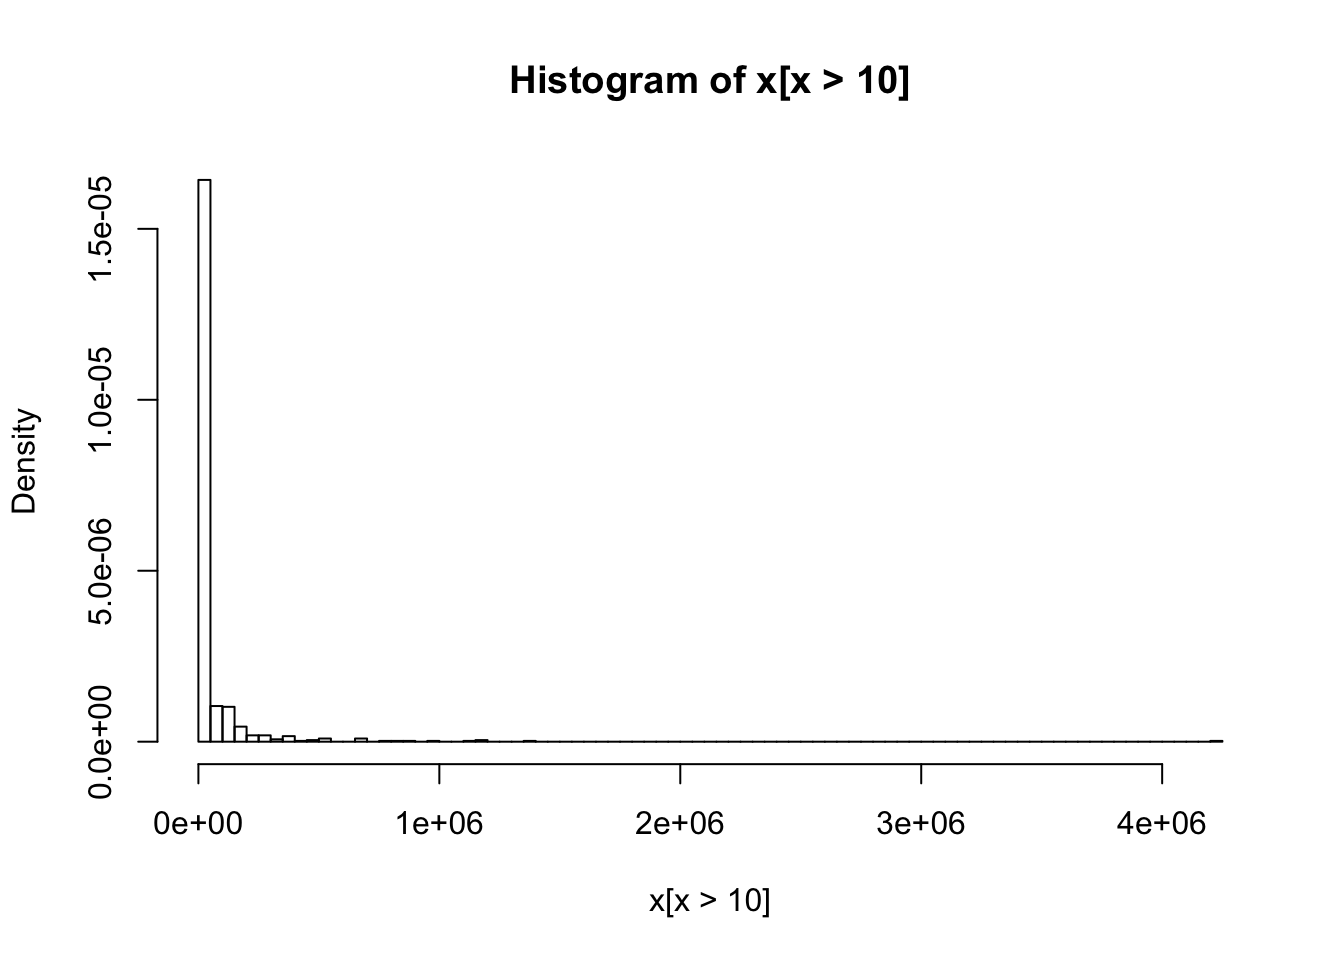
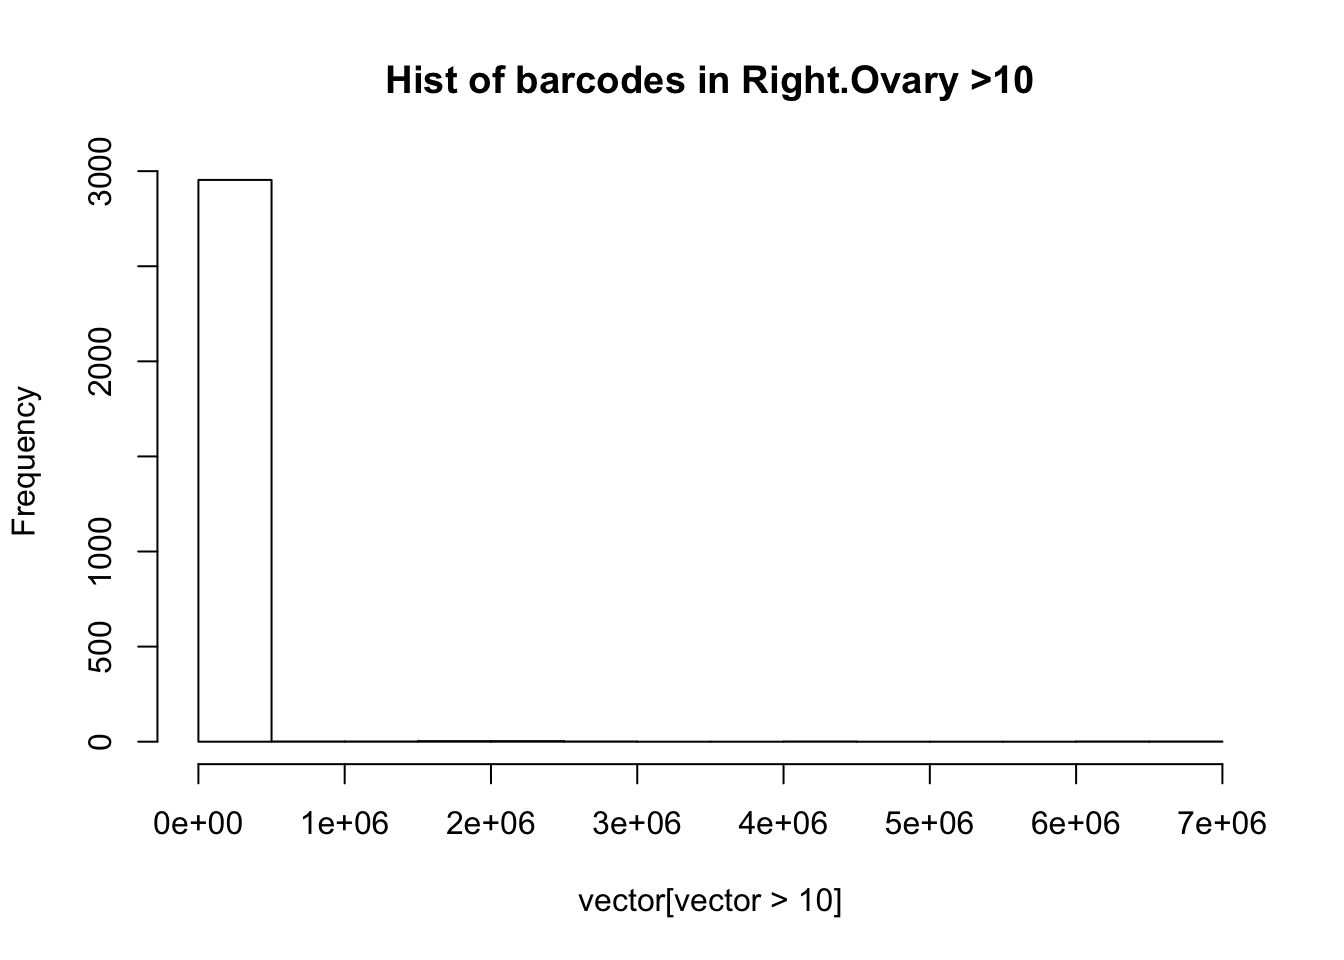
added historgram and link to pdf

diff --git a/docs/Pearson.html b/docs/Pearson.html
@@ -327,8 +327,7 @@ div.section {
 <strong>workflowr checks:</strong> <small>(Click a bullet for more information)</small>
 <ul>
 <li>
-<p><details> <summary> <strong style="color:blue;">✔</strong> <strong>R Markdown file:</strong> up-to-date </summary></p>
-<p>Great! Since the R Markdown file has been committed to the Git repository, you know the exact version of the code that produced these results.</p>
+<p><details> <summary> <strong style="color:red;">✖</strong> <strong>R Markdown file:</strong> uncommitted changes </summary> The R Markdown file has unstaged changes. To know which version of the R Markdown file created these results, you’ll want to first commit it to the Git repo. If you’re still working on the analysis, you can ignore this warning. When you’re finished, you can run <code>wflow_publish</code> to commit the R Markdown file and build the HTML.</p>
 </details>
 </li>
 <li>
@@ -347,7 +346,7 @@ div.section {
 </details>
 </li>
 <li>
-<p><details> <summary> <strong style="color:blue;">✔</strong> <strong>Repository version:</strong> <a href="https://github.com/surbut/myproject/tree/d51426d853fe3727c185d1a2d6ce94c4e90dc8fe" target="_blank">d51426d</a> </summary></p>
+<p><details> <summary> <strong style="color:blue;">✔</strong> <strong>Repository version:</strong> <a href="https://github.com/surbut/myproject/tree/67dcbdd736de7503960d596403917691f980bbee" target="_blank">67dcbdd</a> </summary></p>
 Great! You are using Git for version control. Tracking code development and connecting the code version to the results is critical for reproducibility. The version displayed above was the version of the Git repository at the time these results were generated. <br><br> Note that you need to be careful to ensure that all relevant files for the analysis have been committed to Git prior to generating the results (you can use <code>wflow_publish</code> or <code>wflow_git_commit</code>). workflowr only checks the R Markdown file, but you know if there are other scripts or data files that it depends on. Below is the status of the Git repository when the results were generated:
 <pre><code>
 Ignored files:
@@ -357,6 +356,9 @@ Ignored files:
     Ignored:    analysis/.DS_Store
     Ignored:    analysis/.Rhistory
     Ignored:    analysis/Pearson_cache/
+
+Unstaged changes:
+    Modified:   analysis/Pearson.Rmd
 
 </code></pre>
 Note that any generated files, e.g. HTML, png, CSS, etc., are not included in this status report because it is ok for generated content to have uncommitted changes. </details>
@@ -385,6 +387,23 @@ Message
 </tr>
 </thead>
 <tbody>
+<tr>
+<td style="text-align:left;">
+html
+</td>
+<td style="text-align:left;">
+<a href="https://cdn.rawgit.com/surbut/myproject/67dcbdd736de7503960d596403917691f980bbee/docs/Pearson.html" target="_blank">67dcbdd</a>
+</td>
+<td style="text-align:left;">
+surbut
+</td>
+<td style="text-align:left;">
+2018-10-23
+</td>
+<td style="text-align:left;">
+Build site.
+</td>
+</tr>
 <tr>
 <td style="text-align:left;">
 Rmd
@@ -1190,9 +1209,17 @@ surbut
 <p>###</p>
 <p>Let’s look at the distribution within nonZero tissues</p>
 <p>Let’s look at the distribution within nonZero tissues, excluding those barcodes with less than 10 per tissue.</p>
-<pre class="r"><code>apply(mat,2,function(x){
-h=hist(x[x&gt;10],freq = F,nclass = 100)
-plot(h)})</code></pre>
+<pre class="r"><code>colnames(mat)</code></pre>
+<pre><code>[1] &quot;Lung&quot;        &quot;Liver&quot;       &quot;Right.Ovary&quot; &quot;Left.Ovary&quot;  &quot;Adrenal&quot;    </code></pre>
+<pre class="r"><code>sapply(colnames(mat),function(x){
+  vector=mat[,x]
+  h=hist(vector[vector&gt;10],plot = F,freq=F)
+  plot(h,main=paste(&quot;Hist of barcodes in&quot;,x,&quot;&gt;10&quot;))})</code></pre>
+<pre><code>Warning in hist.default(vector[vector &gt; 10], plot = F, freq = F): argument
+&#39;freq&#39; is not made use of
+
+Warning in hist.default(vector[vector &gt; 10], plot = F, freq = F): argument
+&#39;freq&#39; is not made use of</code></pre>
 <p><img src="figure/Pearson.Rmd/unnamed-chunk-9-1.png" width="672" style="display: block; margin: auto;" /></p>
 <details> <summary><em>Expand here to see past versions of unnamed-chunk-9-1.png:</em></summary>
 <table style="border-collapse:separate; border-spacing:5px;">
@@ -1245,7 +1272,10 @@ surbut
 </tr>
 </tbody>
 </table>
-<p></details> <img src="figure/Pearson.Rmd/unnamed-chunk-9-2.png" width="672" style="display: block; margin: auto;" /></p>
+<p></details></p>
+<pre><code>Warning in hist.default(vector[vector &gt; 10], plot = F, freq = F): argument
+&#39;freq&#39; is not made use of</code></pre>
+<p><img src="figure/Pearson.Rmd/unnamed-chunk-9-2.png" width="672" style="display: block; margin: auto;" /></p>
 <details> <summary><em>Expand here to see past versions of unnamed-chunk-9-2.png:</em></summary>
 <table style="border-collapse:separate; border-spacing:5px;">
 <thead>
@@ -1275,7 +1305,10 @@ surbut
 </tr>
 </tbody>
 </table>
-<p></details> <img src="figure/Pearson.Rmd/unnamed-chunk-9-3.png" width="672" style="display: block; margin: auto;" /></p>
+<p></details></p>
+<pre><code>Warning in hist.default(vector[vector &gt; 10], plot = F, freq = F): argument
+&#39;freq&#39; is not made use of</code></pre>
+<p><img src="figure/Pearson.Rmd/unnamed-chunk-9-3.png" width="672" style="display: block; margin: auto;" /></p>
 <details> <summary><em>Expand here to see past versions of unnamed-chunk-9-3.png:</em></summary>
 <table style="border-collapse:separate; border-spacing:5px;">
 <thead>
@@ -1305,7 +1338,10 @@ surbut
 </tr>
 </tbody>
 </table>
-<p></details> <img src="figure/Pearson.Rmd/unnamed-chunk-9-4.png" width="672" style="display: block; margin: auto;" /></p>
+<p></details></p>
+<pre><code>Warning in hist.default(vector[vector &gt; 10], plot = F, freq = F): argument
+&#39;freq&#39; is not made use of</code></pre>
+<p><img src="figure/Pearson.Rmd/unnamed-chunk-9-4.png" width="672" style="display: block; margin: auto;" /></p>
 <details> <summary><em>Expand here to see past versions of unnamed-chunk-9-4.png:</em></summary>
 <table style="border-collapse:separate; border-spacing:5px;">
 <thead>
@@ -1365,158 +1401,21 @@ surbut
 </tr>
 </tbody>
 </table>
-<p></details> <img src="figure/Pearson.Rmd/unnamed-chunk-9-6.png" width="672" style="display: block; margin: auto;" /></p>
-<details> <summary><em>Expand here to see past versions of unnamed-chunk-9-6.png:</em></summary>
-<table style="border-collapse:separate; border-spacing:5px;">
-<thead>
-<tr>
-<th style="text-align:left;">
-Version
-</th>
-<th style="text-align:left;">
-Author
-</th>
-<th style="text-align:left;">
-Date
-</th>
-</tr>
-</thead>
-<tbody>
-<tr>
-<td style="text-align:left;">
-<a href="https://github.com/surbut/myproject/blob/d51426d853fe3727c185d1a2d6ce94c4e90dc8fe/docs/figure/Pearson.Rmd/unnamed-chunk-9-6.png" target="_blank">d51426d</a>
-</td>
-<td style="text-align:left;">
-surbut
-</td>
-<td style="text-align:left;">
-2018-10-23
-</td>
-</tr>
-</tbody>
-</table>
-<p></details> <img src="figure/Pearson.Rmd/unnamed-chunk-9-7.png" width="672" style="display: block; margin: auto;" /></p>
-<details> <summary><em>Expand here to see past versions of unnamed-chunk-9-7.png:</em></summary>
-<table style="border-collapse:separate; border-spacing:5px;">
-<thead>
-<tr>
-<th style="text-align:left;">
-Version
-</th>
-<th style="text-align:left;">
-Author
-</th>
-<th style="text-align:left;">
-Date
-</th>
-</tr>
-</thead>
-<tbody>
-<tr>
-<td style="text-align:left;">
-<a href="https://github.com/surbut/myproject/blob/d51426d853fe3727c185d1a2d6ce94c4e90dc8fe/docs/figure/Pearson.Rmd/unnamed-chunk-9-7.png" target="_blank">d51426d</a>
-</td>
-<td style="text-align:left;">
-surbut
-</td>
-<td style="text-align:left;">
-2018-10-23
-</td>
-</tr>
-</tbody>
-</table>
-<p></details> <img src="figure/Pearson.Rmd/unnamed-chunk-9-8.png" width="672" style="display: block; margin: auto;" /></p>
-<details> <summary><em>Expand here to see past versions of unnamed-chunk-9-8.png:</em></summary>
-<table style="border-collapse:separate; border-spacing:5px;">
-<thead>
-<tr>
-<th style="text-align:left;">
-Version
-</th>
-<th style="text-align:left;">
-Author
-</th>
-<th style="text-align:left;">
-Date
-</th>
-</tr>
-</thead>
-<tbody>
-<tr>
-<td style="text-align:left;">
-<a href="https://github.com/surbut/myproject/blob/d51426d853fe3727c185d1a2d6ce94c4e90dc8fe/docs/figure/Pearson.Rmd/unnamed-chunk-9-8.png" target="_blank">d51426d</a>
-</td>
-<td style="text-align:left;">
-surbut
-</td>
-<td style="text-align:left;">
-2018-10-23
-</td>
-</tr>
-</tbody>
-</table>
-<p></details> <img src="figure/Pearson.Rmd/unnamed-chunk-9-9.png" width="672" style="display: block; margin: auto;" /></p>
-<details> <summary><em>Expand here to see past versions of unnamed-chunk-9-9.png:</em></summary>
-<table style="border-collapse:separate; border-spacing:5px;">
-<thead>
-<tr>
-<th style="text-align:left;">
-Version
-</th>
-<th style="text-align:left;">
-Author
-</th>
-<th style="text-align:left;">
-Date
-</th>
-</tr>
-</thead>
-<tbody>
-<tr>
-<td style="text-align:left;">
-<a href="https://github.com/surbut/myproject/blob/d51426d853fe3727c185d1a2d6ce94c4e90dc8fe/docs/figure/Pearson.Rmd/unnamed-chunk-9-9.png" target="_blank">d51426d</a>
-</td>
-<td style="text-align:left;">
-surbut
-</td>
-<td style="text-align:left;">
-2018-10-23
-</td>
-</tr>
-</tbody>
-</table>
-<p></details> <img src="figure/Pearson.Rmd/unnamed-chunk-9-10.png" width="672" style="display: block; margin: auto;" /></p>
-<details> <summary><em>Expand here to see past versions of unnamed-chunk-9-10.png:</em></summary>
-<table style="border-collapse:separate; border-spacing:5px;">
-<thead>
-<tr>
-<th style="text-align:left;">
-Version
-</th>
-<th style="text-align:left;">
-Author
-</th>
-<th style="text-align:left;">
-Date
-</th>
-</tr>
-</thead>
-<tbody>
-<tr>
-<td style="text-align:left;">
-<a href="https://github.com/surbut/myproject/blob/d51426d853fe3727c185d1a2d6ce94c4e90dc8fe/docs/figure/Pearson.Rmd/unnamed-chunk-9-10.png" target="_blank">d51426d</a>
-</td>
-<td style="text-align:left;">
-surbut
-</td>
-<td style="text-align:left;">
-2018-10-23
-</td>
-</tr>
-</tbody>
-</table>
 <p></details></p>
-<pre><code>NULL</code></pre>
+<pre><code>$Lung
+NULL
+
+$Liver
+NULL
+
+$Right.Ovary
+NULL
+
+$Left.Ovary
+NULL
+
+$Adrenal
+NULL</code></pre>
 <p>It appears that within each tissue, the ‘on’ barcodes have a distribution of counts with various parameters - similar to a mixture of Poisson distributions with varying <span class="math inline">\(\lambda\)</span>. Perhaps we could create a flexible mixture model that uses the unimodal assumption on Poisson data, as opposed to normal data.</p>
 <p>See The generic version of cormotif(link)[<a href="https://github.com/stephenslab/miximash/blob/master/inst/notes/generic_cormotif.pdf" class="uri">https://github.com/stephenslab/miximash/blob/master/inst/notes/generic_cormotif.pdf</a>].</p>
 <p>```</p>
@@ -1541,6 +1440,7 @@ attached base packages:
 other attached packages:
 [1] lattice_0.20-35    dplyr_0.7.6        gplots_3.0.1      
 [4] RColorBrewer_1.1-2 CountClust_1.8.0   ggplot2_3.0.0     
+[7] workflowr_1.1.1   
 
 loaded via a namespace (and not attached):
  [1] gtools_3.8.1       modeltools_0.2-22  tidyselect_0.2.5  
@@ -1550,21 +1450,21 @@ loaded via a namespace (and not attached):
 [13] R.oo_1.22.0        pillar_1.3.0       glue_1.3.0        
 [16] withr_2.1.2        R.utils_2.7.0      bindrcpp_0.2.2    
 [19] bindr_0.1.1        plyr_1.8.4         stringr_1.3.1     
-[22] munsell_0.5.0      gtable_0.2.0       workflowr_1.1.1   
-[25] R.methodsS3_1.7.1  caTools_1.17.1.1   evaluate_0.12     
-[28] knitr_1.20         permute_0.9-4      flexmix_2.3-14    
-[31] parallel_3.5.1     Rcpp_0.12.19       KernSmooth_2.23-15
-[34] scales_1.0.0       backports_1.1.2    gdata_2.18.0      
-[37] limma_3.36.5       vegan_2.5-2        maptpx_1.9-2      
-[40] picante_1.7        digest_0.6.18      stringi_1.2.4     
-[43] grid_3.5.1         rprojroot_1.3-2    cowplot_0.9.3     
-[46] bitops_1.0-6       tools_3.5.1        magrittr_1.5      
-[49] lazyeval_0.2.1     tibble_1.4.2       cluster_2.0.7-1   
-[52] crayon_1.3.4       ape_5.2            whisker_0.3-2     
-[55] pkgconfig_2.0.2    Matrix_1.2-14      MASS_7.3-50       
-[58] SQUAREM_2017.10-1  assertthat_0.2.0   rmarkdown_1.10    
-[61] R6_2.3.0           nnet_7.3-12        nlme_3.1-137      
-[64] git2r_0.23.0       compiler_3.5.1    </code></pre>
+[22] munsell_0.5.0      gtable_0.2.0       R.methodsS3_1.7.1 
+[25] caTools_1.17.1.1   evaluate_0.12      knitr_1.20        
+[28] permute_0.9-4      flexmix_2.3-14     parallel_3.5.1    
+[31] Rcpp_0.12.19       KernSmooth_2.23-15 scales_1.0.0      
+[34] backports_1.1.2    gdata_2.18.0       limma_3.36.5      
+[37] vegan_2.5-2        maptpx_1.9-2       picante_1.7       
+[40] digest_0.6.18      stringi_1.2.4      grid_3.5.1        
+[43] rprojroot_1.3-2    cowplot_0.9.3      bitops_1.0-6      
+[46] tools_3.5.1        magrittr_1.5       lazyeval_0.2.1    
+[49] tibble_1.4.2       cluster_2.0.7-1    crayon_1.3.4      
+[52] ape_5.2            whisker_0.3-2      pkgconfig_2.0.2   
+[55] Matrix_1.2-14      MASS_7.3-50        SQUAREM_2017.10-1 
+[58] assertthat_0.2.0   rmarkdown_1.10     R6_2.3.0          
+[61] nnet_7.3-12        nlme_3.1-137       git2r_0.23.0      
+[64] compiler_3.5.1    </code></pre>
 </div>
 
 <!-- Adjust MathJax settings so that all math formulae are shown using
